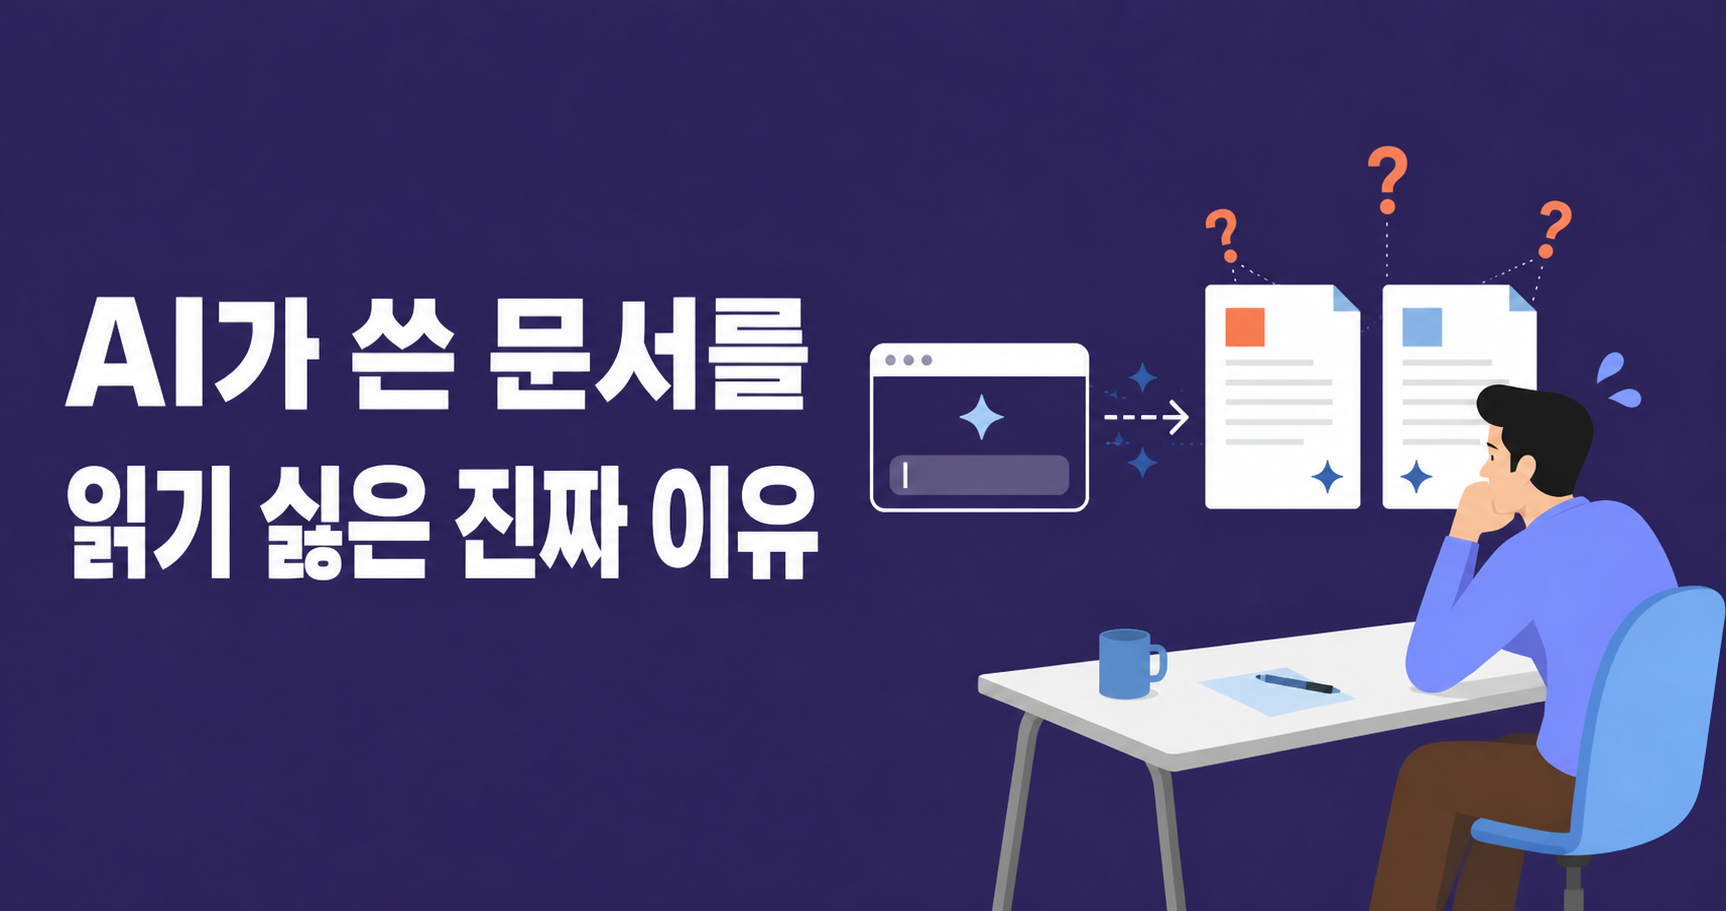
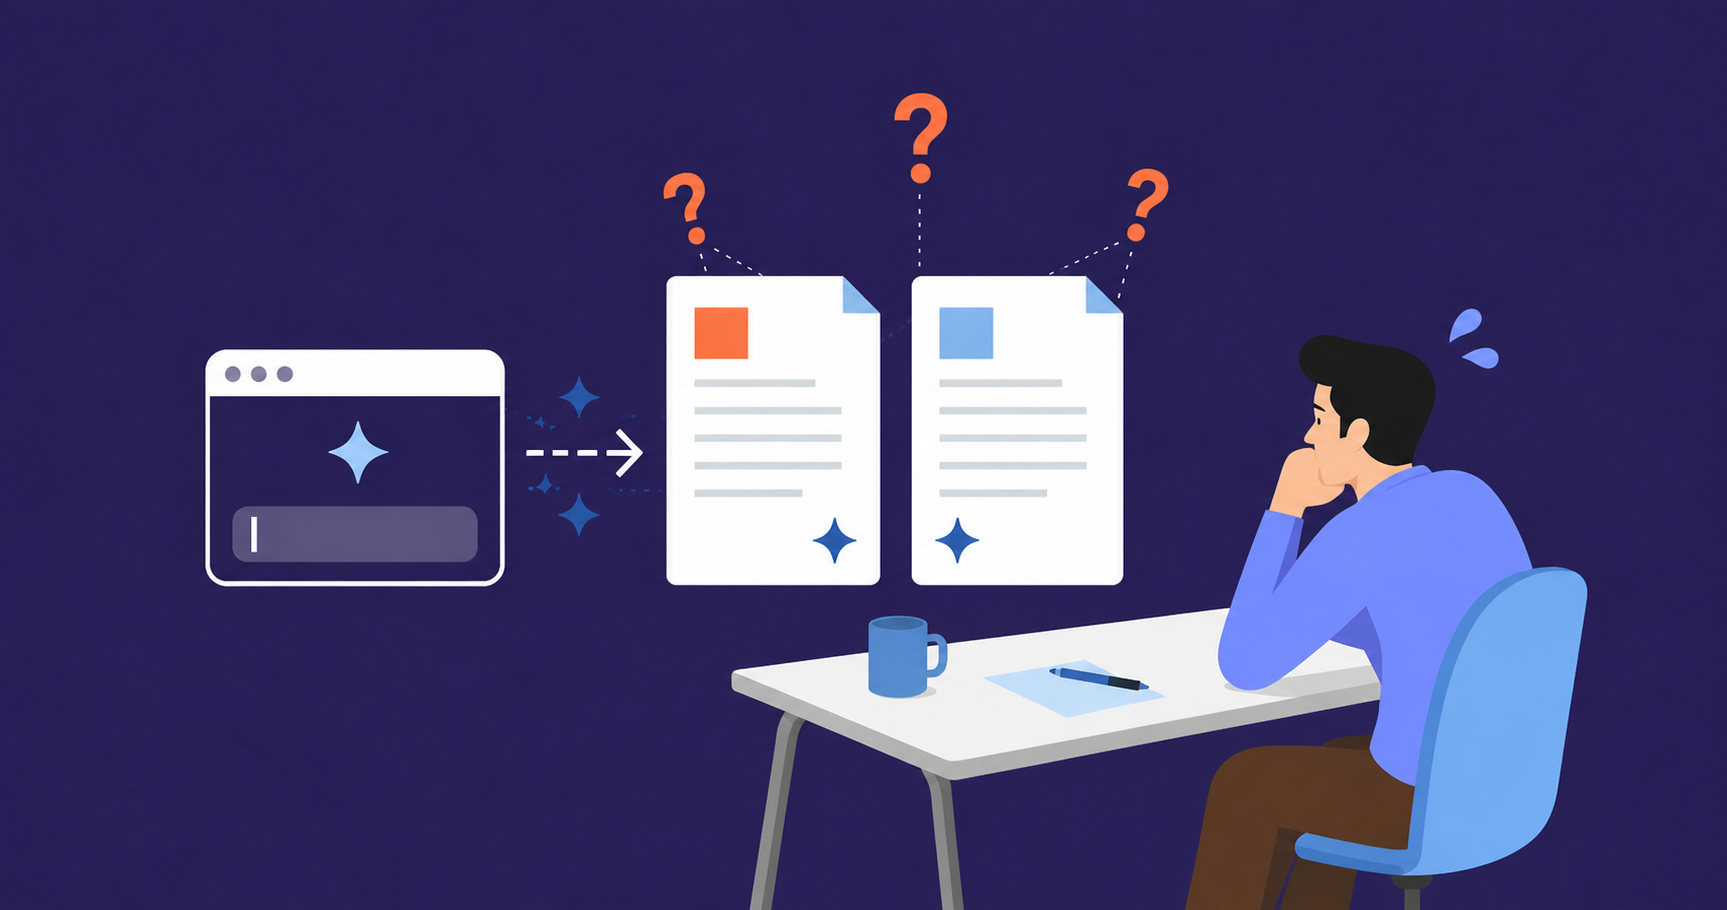
feat(blog): add editorial article hero

diff --git a/_sass/custom.scss b/_sass/custom.scss
@@ -276,6 +276,74 @@ body ::-moz-selection { background: #bfe8ee; color: #0b2b33; }
   .yb-hero__media { max-width: 100%; }
 }
 
+/* ===== 에디토리얼 글 헤더: 제목과 이미지를 중복 없이 각각 읽히게 ===== */
+.yb-editorial {
+  background: #fff;
+
+  .page__main-inner { background: #fff; }
+  .header { background: transparent !important; }
+  .page__header {
+    background: rgba(255, 255, 255, .94);
+    border-bottom: 1px solid rgba(22, 31, 43, .10);
+  }
+  .page__header a,
+  .page__header .navigation__item--active a,
+  .page__header i,
+  .page__header svg { color: $yb-ink-strong !important; }
+  .page__header a:hover,
+  .page__header i:hover { color: $yb-coral !important; }
+
+  .yb-hero {
+    gap: 64px;
+    min-height: 500px;
+    margin-bottom: 0;
+    padding: 72px 0 76px;
+  }
+  .yb-hero::before {
+    background:
+      radial-gradient(42% 55% at 18% 100%, rgba(15, 124, 140, .10), transparent 72%),
+      radial-gradient(38% 52% at 74% 100%, rgba(255, 90, 60, .08), transparent 74%),
+      #fff;
+  }
+  .yb-hero__text { flex: 0 1 46%; }
+  .yb-hero__media {
+    flex: 0 1 54%;
+    max-width: none;
+  }
+  .yb-hero__media img {
+    width: 100%;
+    border-radius: 18px;
+    box-shadow: 0 24px 60px rgba(28, 31, 61, .14);
+  }
+  .yb-hero .article__header h1 {
+    color: $yb-ink-strong;
+    font-size: clamp(42px, 4.2vw, 64px);
+    font-weight: 800;
+    line-height: 1.08;
+    letter-spacing: -.035em;
+  }
+  .yb-hero .article__subtitle {
+    max-width: 32em;
+    margin-top: 24px;
+    color: $yb-meta;
+    font-size: 19px;
+    line-height: 1.65;
+  }
+  .yb-breadcrumb { margin-bottom: 24px; }
+}
+
+@media (max-width: 900px) {
+  .yb-editorial .yb-hero {
+    flex-direction: column;
+    align-items: stretch;
+    gap: 36px;
+    min-height: 0;
+    padding: 48px 0 56px;
+  }
+  .yb-editorial .yb-hero__media { max-width: 100%; }
+  .yb-editorial .yb-hero .article__header h1 { font-size: clamp(38px, 9vw, 52px); }
+}
+
 /* ===== 다이브 모드: GNB부터 히어로까지 하나의 어두운 블록 =====
    물 밖(홈·카테고리·About)은 흰 배경, 글 본문은 수면 아래.
    .yb-dive 는 page.html에서 글 본문에만 붙는다. */

diff --git a/_layouts/page.html b/_layouts/page.html
@@ -37,7 +37,9 @@ layout: base
    - forgedark: 대장간(목록·상세) → 페이지 전체 어둠. collection forge 또는 forge_dark:true
 {%- endcomment -%}
 {%- assign _dive = false -%}
-{%- if page.layout == 'article' and page.hero_scale != true and page.article_header != false -%}
+{%- assign _editorial = false -%}
+{%- if page.hero_style == 'editorial' -%}{%- assign _editorial = true -%}{%- endif -%}
+{%- if page.layout == 'article' and page.hero_scale != true and page.article_header != false and _editorial != true -%}
   {%- assign _dive = true -%}
 {%- endif -%}
 {%- assign _forgedark = false -%}
@@ -48,7 +50,7 @@ layout: base
 {%- if page.shallow -%}{%- assign _shallow = true -%}{%- endif -%}
 
 {%- if page.sidebar -%}
-<div class="layout--page layout--page--sidebar clearfix js-page-root{% if _dive %} yb-dive{% endif %}{% if _forgedark %} yb-forge-dark{% endif %}{% if _forgedetail %} yb-forge-detail{% endif %}{% if _shallow %} yb-shallow{% endif %}">
+<div class="layout--page layout--page--sidebar clearfix js-page-root{% if _dive %} yb-dive{% endif %}{% if _editorial %} yb-editorial{% endif %}{% if _forgedark %} yb-forge-dark{% endif %}{% if _forgedetail %} yb-forge-detail{% endif %}{% if _shallow %} yb-shallow{% endif %}">
   <div class="page__mask d-print-none js-page-mask js-sidebar-hide"></div>
   <div class="page__viewport">
     <div class="page__actions d-print-none">
@@ -64,7 +66,7 @@ layout: base
       </div>
 
 {%- else -%}
-<div class="layout--page js-page-root{% if _dive %} yb-dive{% endif %}{% if _forgedark %} yb-forge-dark{% endif %}{% if _forgedetail %} yb-forge-detail{% endif %}{% if _shallow %} yb-shallow{% endif %}">
+<div class="layout--page js-page-root{% if _dive %} yb-dive{% endif %}{% if _editorial %} yb-editorial{% endif %}{% if _forgedark %} yb-forge-dark{% endif %}{% if _forgedetail %} yb-forge-detail{% endif %}{% if _shallow %} yb-shallow{% endif %}">
 {%- endif -%}
 
     {%- assign _page_main_class = 'page__main js-page-main' -%}

diff --git a/_posts/2026-08-31-reading-ai-written-documents.md b/_posts/2026-08-31-reading-ai-written-documents.md
@@ -8,6 +8,7 @@ categories: [work]
 tags: [AI 글쓰기, 협업]
 internal_tags: [AI 문서 검토, AI 생성 문서 신뢰, 협업 커뮤니케이션, 검증 비용]
 hero_image: /assets/images/thumbnail/2026-08-31_reading-ai-written-documents.png
+hero_style: editorial
 ---
 
 > “본질적인 내용이 중요한 것 아닌가? 왜 이렇게 사소한 것에 집착해.”
